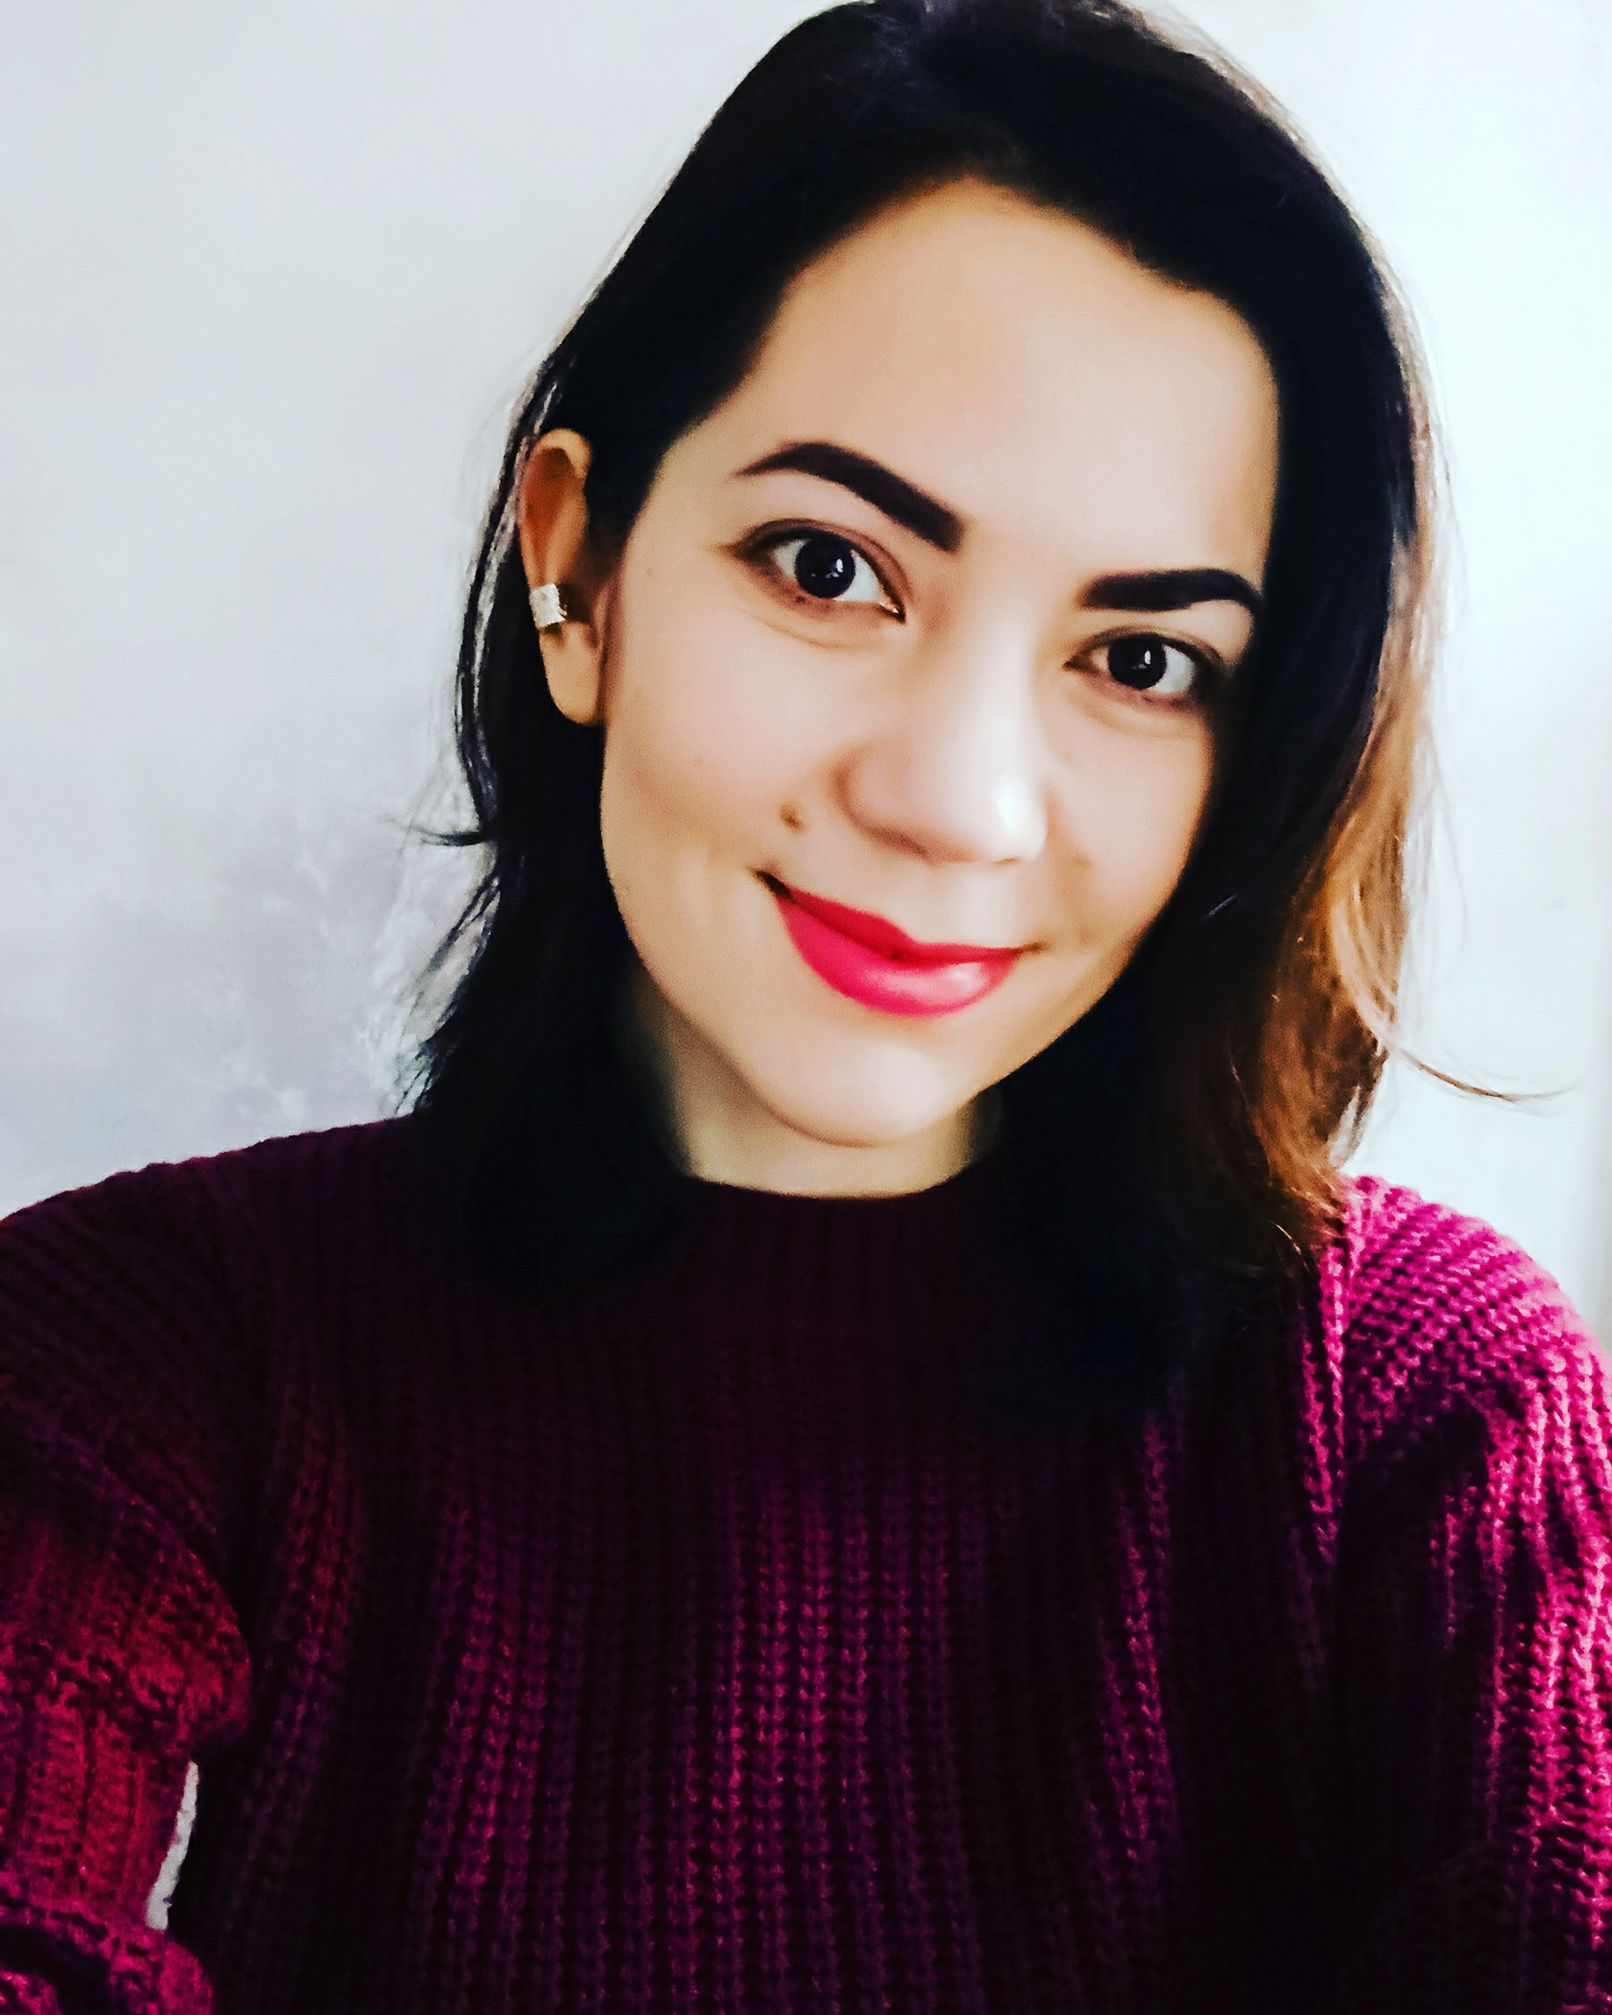
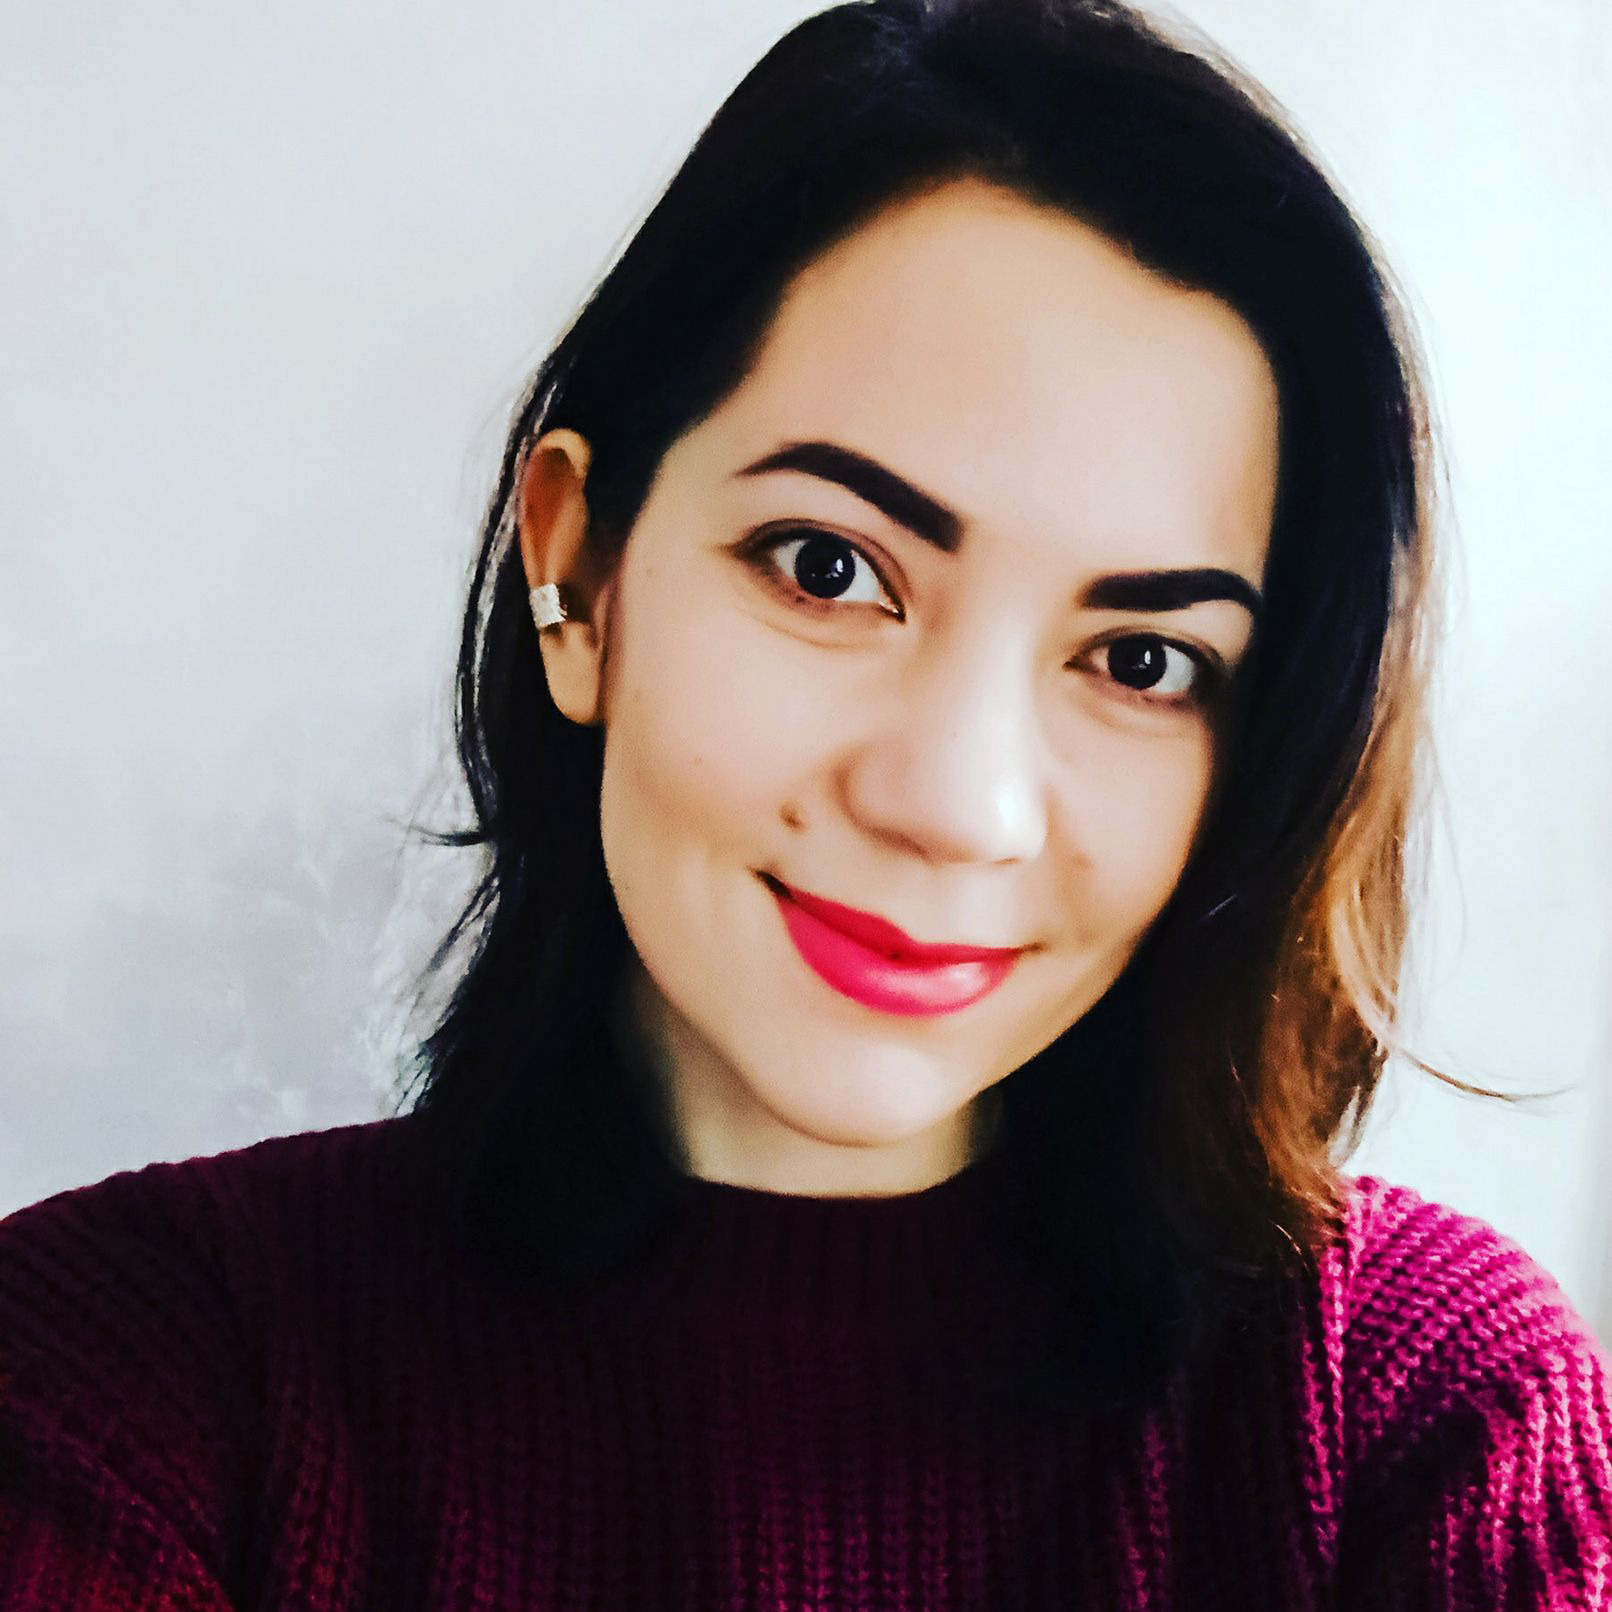
round photo

diff --git a/css/styles.css b/css/styles.css
@@ -22,7 +22,7 @@ h3 {
             left: 0;
             top: 0;
             width: 25%;
-            background: 
+            
         }
 
         #right {
@@ -37,3 +37,4 @@ h3 {
             border: 3px solid rgb(30, 150, 219); /* Параметры рамки */
             box-shadow: 0 0 7px rgb(34, 163, 238); /* Параметры тени */
         }
+       

diff --git a/index.html b/index.html
@@ -107,7 +107,7 @@
     <div id="left">
         <div class="sidebar">
             <aside>
-                <img src="images/me.jpg" alt="Elena Kobka" width="200" height="200" class="round">
+                <img src="images/me.jpg" alt="Elena Kobka" width="200" class="round">
             </aside>
             <aside>
                 <h3>Personal Information</h3>
